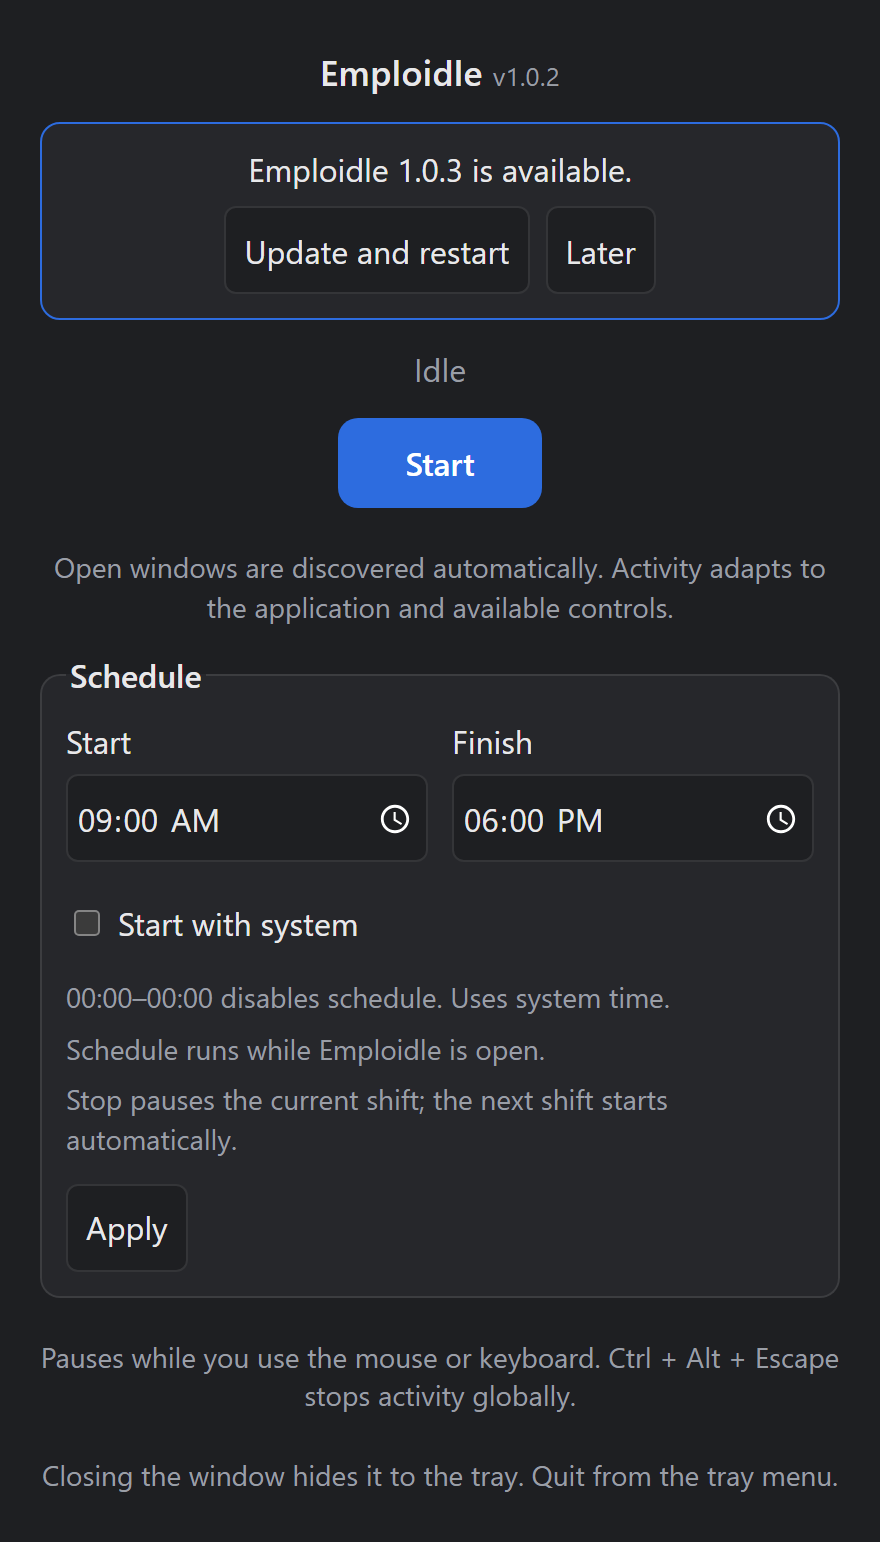
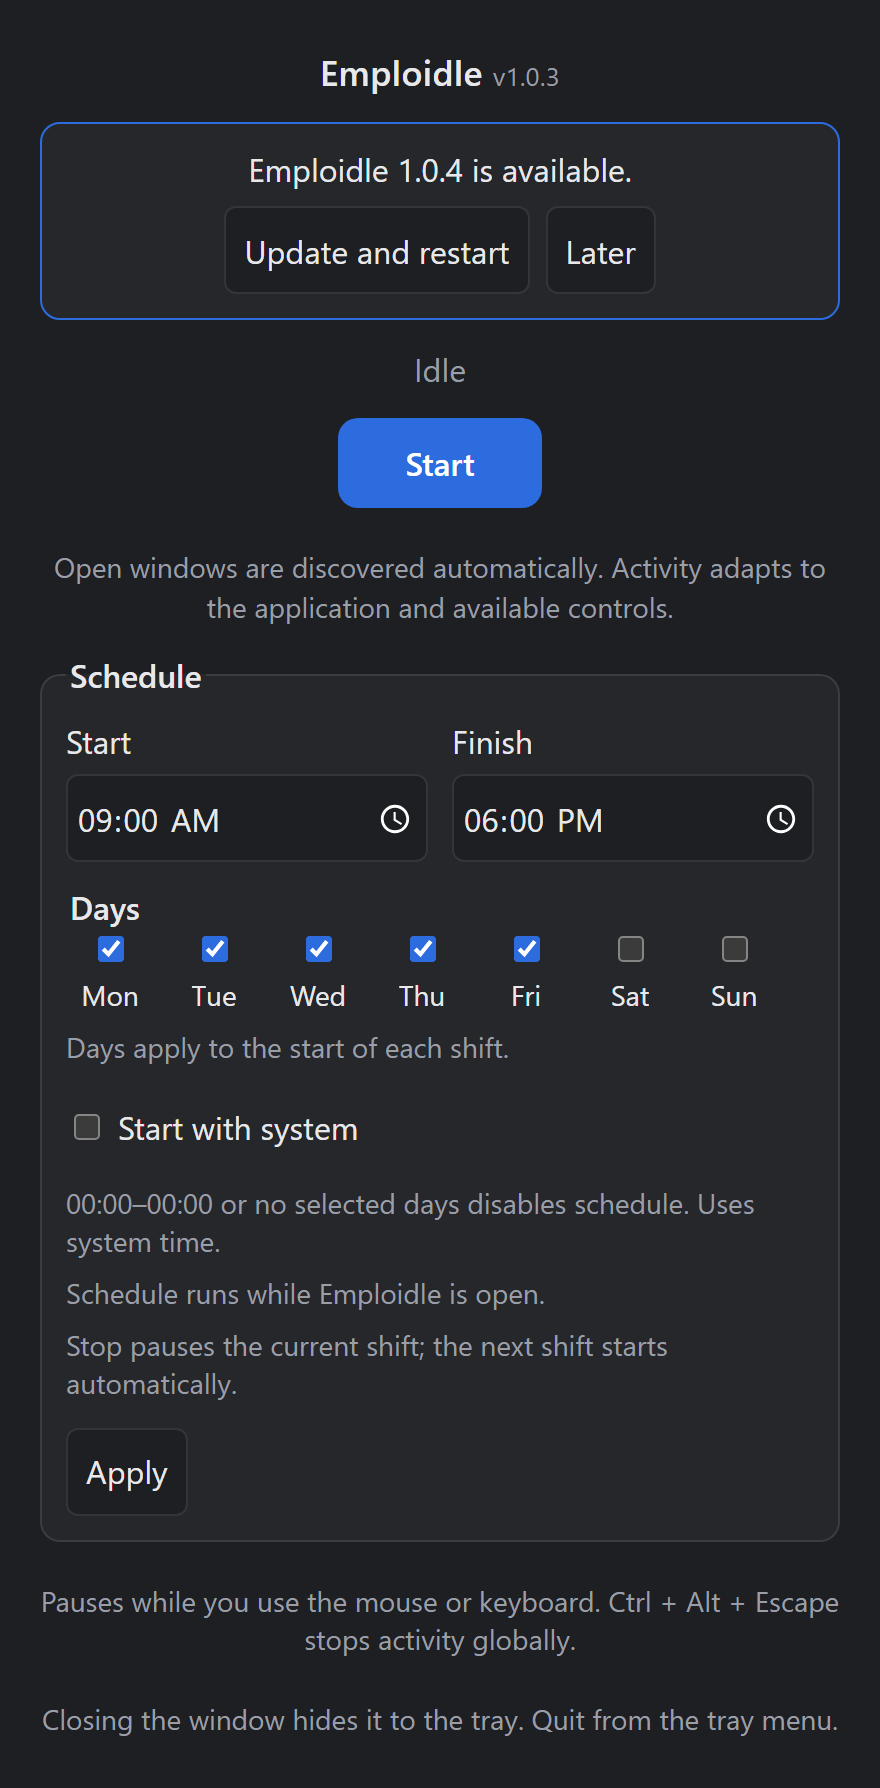
feat(activity): add weekday scheduling

diff --git a/src/index.html b/src/index.html
@@ -26,8 +26,21 @@
             <label for="schedule-start">Start<input id="schedule-start" type="time" value="00:00" required /></label>
             <label for="schedule-finish">Finish<input id="schedule-finish" type="time" value="00:00" required /></label>
           </div>
+          <fieldset class="schedule-days" aria-describedby="schedule-days-hint">
+            <legend>Days</legend>
+            <div class="weekday-options">
+              <label><input id="schedule-mon" type="checkbox" aria-label="Monday" checked />Mon</label>
+              <label><input id="schedule-tue" type="checkbox" aria-label="Tuesday" checked />Tue</label>
+              <label><input id="schedule-wed" type="checkbox" aria-label="Wednesday" checked />Wed</label>
+              <label><input id="schedule-thu" type="checkbox" aria-label="Thursday" checked />Thu</label>
+              <label><input id="schedule-fri" type="checkbox" aria-label="Friday" checked />Fri</label>
+              <label><input id="schedule-sat" type="checkbox" aria-label="Saturday" checked />Sat</label>
+              <label><input id="schedule-sun" type="checkbox" aria-label="Sunday" checked />Sun</label>
+            </div>
+          </fieldset>
+          <p id="schedule-days-hint" class="hint">Days apply to the start of each shift.</p>
           <label class="startup-option"><input id="autostart" type="checkbox" /> Start with system</label>
-          <p class="hint">00:00–00:00 disables schedule. Uses system time.</p>
+          <p class="hint">00:00–00:00 or no selected days disables schedule. Uses system time.</p>
           <p class="hint">Schedule runs while Emploidle is open.</p>
           <p class="hint">Stop pauses the current shift; the next shift starts automatically.</p>
           <button class="secondary apply-preferences" type="submit">Apply</button>

diff --git a/src/main.js b/src/main.js
@@ -8,6 +8,8 @@ const preferences = document.getElementById("preferences");
 const preferencesForm = document.getElementById("preferences-form");
 const scheduleStart = document.getElementById("schedule-start");
 const scheduleFinish = document.getElementById("schedule-finish");
+const scheduleDays = ["mon", "tue", "wed", "thu", "fri", "sat", "sun"]
+  .map((day) => document.getElementById(`schedule-${day}`));
 const autostart = document.getElementById("autostart");
 let active = false;
 let pending = true;
@@ -24,6 +26,9 @@ function render() {
 function renderPreferences(saved) {
   scheduleStart.value = saved.schedule.start;
   scheduleFinish.value = saved.schedule.finish;
+  scheduleDays.forEach((checkbox, index) => {
+    checkbox.checked = saved.schedule.days[index];
+  });
   autostart.checked = saved.autostart;
 }
 
@@ -48,7 +53,11 @@ preferencesForm.addEventListener("submit", (event) => {
   perform(async () => {
     renderPreferences(await invoke("update_preferences", {
       preferences: {
-        schedule: { start: scheduleStart.value, finish: scheduleFinish.value },
+        schedule: {
+          start: scheduleStart.value,
+          finish: scheduleFinish.value,
+          days: scheduleDays.map((checkbox) => checkbox.checked),
+        },
         autostart: autostart.checked,
       },
     }));

diff --git a/src/styles.css b/src/styles.css
@@ -103,6 +103,35 @@ fieldset {
   min-width: 0;
 }
 
+.schedule-days {
+  border: 0;
+  margin-top: 12px;
+  padding: 0;
+  background: transparent;
+}
+
+.weekday-options {
+  display: flex;
+  flex-wrap: wrap;
+  gap: 8px;
+}
+
+.weekday-options label {
+  display: flex;
+  flex-direction: column;
+  align-items: center;
+  justify-content: center;
+  gap: 4px;
+  min-width: 44px;
+  min-height: 44px;
+  cursor: pointer;
+  font-size: 0.875rem;
+}
+
+.weekday-options input {
+  accent-color: var(--accent);
+}
+
 input[type="time"] {
   width: 100%;
   color: var(--fg);

diff --git a/src-tauri/src/schedule.rs b/src-tauri/src/schedule.rs
@@ -4,12 +4,24 @@ use serde::{Deserialize, Serialize};
 pub struct Schedule {
     pub start: String,
     pub finish: String,
+    #[serde(default = "every_day")]
+    pub days: [bool; 7],
+}
+
+fn every_day() -> [bool; 7] {
+    [true; 7]
+}
+
+fn weekday(day: i64) -> usize {
+    // Civil day zero is Thursday, January 1, 1970; the selection starts on Monday.
+    ((day.rem_euclid(7) + 3) % 7) as usize
 }
 impl Default for Schedule {
     fn default() -> Self {
         Self {
             start: "00:00".into(),
             finish: "00:00".into(),
+            days: every_day(),
         }
     }
 }
@@ -43,7 +55,7 @@ impl Schedule {
         if start == finish || clock.minute >= 1440 {
             return None;
         }
-        if start < finish {
+        let shift = if start < finish {
             (start <= clock.minute && clock.minute < finish).then_some(clock.day)
         } else if clock.minute >= start {
             Some(clock.day)
@@ -51,10 +63,11 @@ impl Schedule {
             Some(clock.day - 1)
         } else {
             None
-        }
+        };
+        shift.filter(|day| self.days[weekday(*day)])
     }
     fn enabled(&self) -> bool {
-        self.validate().is_ok() && self.start != self.finish
+        self.validate().is_ok() && self.start != self.finish && self.days.contains(&true)
     }
 }
 
@@ -192,7 +205,11 @@ impl Scheduler {
             return None;
         }
         let finish = minute(&self.schedule.finish)?;
-        Some((clock.day + i64::from(clock.minute >= finish), finish))
+        let overnight = i64::from(minute(&self.schedule.start)? > finish);
+        (clock.day - 1..=clock.day + 7)
+            .filter(|day| self.schedule.days[weekday(*day)])
+            .map(|day| (day + overnight, finish))
+            .find(|end| *end > (clock.day, clock.minute))
     }
     pub fn tick(&mut self, clock: LocalClock) -> Option<Decision> {
         if !self.schedule.enabled() {
@@ -259,6 +276,7 @@ mod tests {
         Schedule {
             start: start.into(),
             finish: finish.into(),
+            ..Schedule::default()
         }
     }
     #[test]
@@ -291,6 +309,82 @@ mod tests {
         let mut scheduler = Scheduler::new(shift);
         scheduler.manual_start(clock(4, "23:00"));
         assert_eq!(scheduler.tick(clock(5, "06:00")), Some(Decision::Stop));
+    }
+
+    #[test]
+    fn selected_weekdays_skip_weekends_and_preserve_manual_stop() {
+        let friday = civil_day(2026, 11, 6);
+        let monday = civil_day(2026, 11, 9);
+        let mut shift = schedule("09:00", "17:00");
+        shift.days = [true, true, true, true, true, false, false];
+        let mut scheduler = Scheduler::new(shift);
+        assert_eq!(
+            scheduler.tick(clock(friday, "09:00")),
+            Some(Decision::Start)
+        );
+        scheduler.manual_stop(clock(friday, "10:00"));
+        assert_eq!(scheduler.tick(clock(friday, "11:00")), None);
+        assert_eq!(scheduler.tick(clock(civil_day(2026, 11, 7), "10:00")), None);
+        assert_eq!(scheduler.tick(clock(civil_day(2026, 11, 8), "10:00")), None);
+        assert_eq!(
+            scheduler.tick(clock(monday, "09:00")),
+            Some(Decision::Start)
+        );
+        assert_eq!(scheduler.tick(clock(monday, "17:00")), Some(Decision::Stop));
+        assert_eq!(weekday(civil_day(1969, 12, 28)), 6);
+        assert_eq!(weekday(0), 3);
+    }
+
+    #[test]
+    fn selected_overnight_shift_finishes_on_unselected_day_and_across_week_boundary() {
+        for (day, selected) in [(civil_day(2026, 11, 6), 4), (civil_day(2026, 11, 8), 6)] {
+            let mut shift = schedule("22:00", "06:00");
+            shift.days = [false; 7];
+            shift.days[selected] = true;
+            assert_eq!(shift.active_shift(clock(day + 1, "05:59")), Some(day));
+            assert_eq!(shift.active_shift(clock(day + 1, "22:00")), None);
+            let mut reopened = Scheduler::new(shift.clone());
+            assert_eq!(
+                reopened.tick(clock(day + 1, "05:59")),
+                Some(Decision::Start)
+            );
+            assert_eq!(reopened.tick(clock(day + 1, "06:00")), Some(Decision::Stop));
+            let mut scheduler = Scheduler::new(shift);
+            assert_eq!(scheduler.tick(clock(day, "21:59")), None);
+            assert_eq!(scheduler.tick(clock(day, "22:00")), Some(Decision::Start));
+            assert_eq!(scheduler.tick(clock(day + 1, "05:59")), None);
+            assert_eq!(
+                scheduler.tick(clock(day + 1, "06:00")),
+                Some(Decision::Stop)
+            );
+            assert_eq!(scheduler.tick(clock(day + 1, "22:00")), None);
+            assert_eq!(
+                scheduler.tick(clock(day + 7, "22:00")),
+                Some(Decision::Start)
+            );
+        }
+    }
+
+    #[test]
+    fn manual_run_waits_for_next_selected_finish_and_no_days_disables_automation() {
+        let friday = civil_day(2026, 11, 6);
+        let monday = civil_day(2026, 11, 9);
+        let mut shift = schedule("09:00", "17:00");
+        shift.days = [true, false, false, false, false, false, false];
+        let mut scheduler = Scheduler::new(shift.clone());
+        scheduler.manual_start(clock(friday, "10:00"));
+        assert_eq!(scheduler.tick(clock(friday, "17:00")), None);
+        assert_eq!(
+            scheduler.tick(clock(monday, "09:00")),
+            Some(Decision::Start)
+        );
+        assert_eq!(scheduler.tick(clock(monday, "17:00")), Some(Decision::Stop));
+        shift.days = [false; 7];
+        assert!(shift.validate().is_ok());
+        let mut scheduler = Scheduler::new(shift);
+        assert_eq!(scheduler.tick(clock(monday, "09:00")), None);
+        scheduler.manual_start(clock(monday, "10:00"));
+        assert_eq!(scheduler.tick(clock(monday, "17:00")), None);
     }
     #[test]
     fn manual_outside_adopts_next_shift_and_disabled_never_stops() {

diff --git a/src-tauri/src/preferences.rs b/src-tauri/src/preferences.rs
@@ -59,9 +59,23 @@ mod tests {
         let settings: Settings = serde_json::from_str(stored).unwrap();
         assert_eq!(settings.preferences.schedule.start, "09:00");
         assert_eq!(settings.preferences.schedule.finish, "18:00");
+        assert_eq!(settings.preferences.schedule.days, [true; 7]);
         assert!(settings.preferences.autostart);
         let saved = serde_json::to_value(settings).unwrap();
         assert!(saved.get("targets").is_none());
         assert!(saved.get("practice").is_none());
+    }
+
+    #[test]
+    fn selected_days_survive_settings_serialization() {
+        let mut settings = Settings::default();
+        settings.preferences.schedule.days = [true, false, true, false, true, false, false];
+        let saved = serde_json::to_vec(&settings).unwrap();
+        let loaded: Settings = serde_json::from_slice(&saved).unwrap();
+        assert_eq!(loaded.preferences.schedule, settings.preferences.schedule);
+        for days in ["[]", "[true]", "[0,0,0,0,0,0,0]"] {
+            let schedule = format!(r#"{{"start":"09:00","finish":"17:00","days":{days}}}"#);
+            assert!(serde_json::from_str::<Schedule>(&schedule).is_err());
+        }
     }
 }

diff --git a/src-tauri/src/activity.rs b/src-tauri/src/activity.rs
@@ -765,6 +765,7 @@ mod tests {
         let shift = Schedule {
             start: "09:00".into(),
             finish: "17:00".into(),
+            ..Schedule::default()
         };
         controller.update_schedule(shift.clone());
         let clock = LocalClock {

diff --git a/README.md b/README.md
@@ -13,7 +13,7 @@ A desktop anti-idle activity simulator with automatic window discovery, varied c
 <picture>
   <source media="(prefers-color-scheme: dark)" srcset="screenshots/dark-main.png">
   <source media="(prefers-color-scheme: light)" srcset="screenshots/light-main.png">
-  <img src="screenshots/light-main.png" width="360" alt="Emploidle main screen with automatic activity and daily schedule controls">
+  <img src="screenshots/light-main.png" width="360" alt="Emploidle main screen with automatic activity and weekly schedule controls">
 </picture>
 
 <p><sub>Application interface with demonstration data. Screenshots follow your light or dark theme.</sub></p>
@@ -28,18 +28,18 @@ A desktop anti-idle activity simulator with automatic window discovery, varied c
 - **Automatic window discovery.** Open applications become available automatically, without window lists, permissions to configure or practice documents.
 - **Application-aware actions on Windows.** Hover over accessible content, scroll supported document controls and restore their position, temporarily review supported browser pages in an owned tab, or review VS Code sidebars, project files and folders.
 - **Pauses for your input.** Physical keyboard or mouse activity interrupts the simulation. It resumes after 8 seconds without physical input; a global shortcut stops it immediately.
-- **Daily schedule.** Set start and finish times, including overnight shifts, and optionally launch Emploidle at login.
+- **Weekly schedule.** Choose days of the week and start and finish times, including overnight shifts, and optionally launch Emploidle at login.
 - **Tray controls and updates.** Start, stop or reopen the window from the tray. Builds with updater support offer signed updates with download progress and a restart button.
 
 <details>
 <summary><b>More screenshots: schedule, paused activity and updates</b></summary>
 
-**Daily schedule**
+**Weekly schedule**
 
 <picture>
   <source media="(prefers-color-scheme: dark)" srcset="screenshots/dark-schedule.png">
   <source media="(prefers-color-scheme: light)" srcset="screenshots/light-schedule.png">
-  <img src="screenshots/light-schedule.png" width="400" alt="Daily schedule from 09:00 to 18:00, with launch at login turned off">
+  <img src="screenshots/light-schedule.png" width="400" alt="Monday through Friday schedule from 09:00 to 18:00, with launch at login turned off">
 </picture>
 
 **Paused activity**
@@ -115,12 +115,12 @@ Open windows are rediscovered between scenarios. Closed or unavailable windows a
 
 ## Schedule and startup
 
-Set **Start** and **Finish** under **Schedule**, then press **Apply**. The schedule follows the system's local time, and Emploidle must remain open in the tray for it to run.
+Choose the days and set **Start** and **Finish** under **Schedule**, then press **Apply**. The schedule follows the system's local time, and Emploidle must remain open in the tray for it to run. Selected days identify when a shift starts; a Friday overnight shift finishes on Saturday even when Saturday is unchecked. Existing schedules keep all days selected.
 
 | Setting or action | Behavior |
 | --- | --- |
-| `00:00`–`00:00` | Scheduling is disabled by default. |
-| Different start and finish times | A daily shift, including shifts that cross midnight. |
+| `00:00`–`00:00` or no selected days | Scheduling is disabled. |
+| Different start and finish times | A shift on each selected day, including shifts that cross midnight. |
 | Manual **Stop** during a shift | Suppresses the remainder of that shift; the next shift can start automatically. |
 | Manual **Start** outside a shift | Runs until **Stop** or the next scheduled finish. |
 | **Start with system** | Launches in the background at user login; off by default. |
